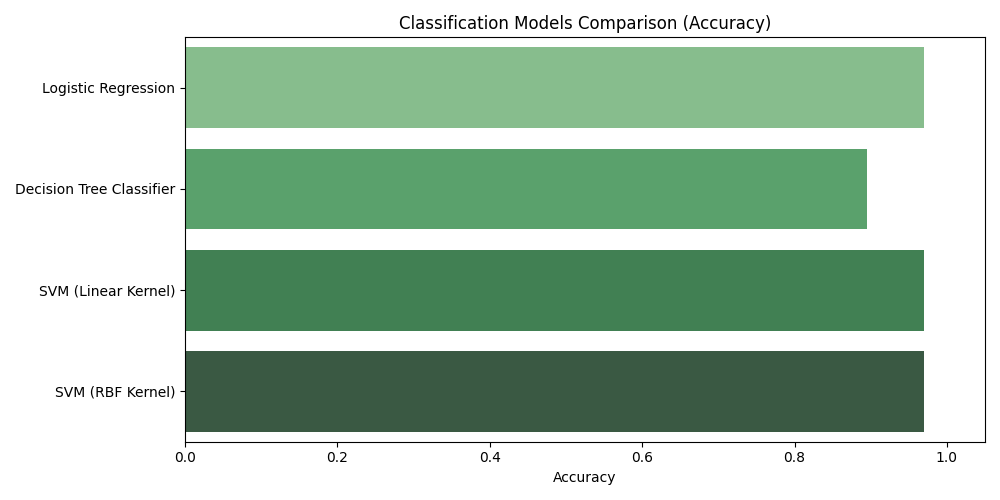
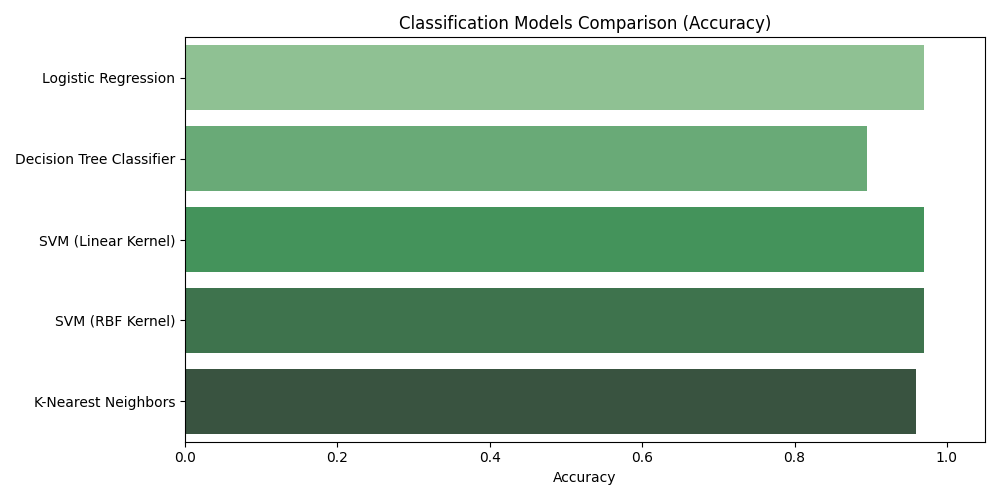
Add K-Nearest Neighbors (KNN) model pipeline and update docs

diff --git a/salary_prediction_project.py b/salary_prediction_project.py
@@ -9,6 +9,7 @@ from sklearn.preprocessing import StandardScaler
 from sklearn.linear_model import LinearRegression, LogisticRegression
 from sklearn.tree import DecisionTreeRegressor, DecisionTreeClassifier
 from sklearn.svm import SVC
+from sklearn.neighbors import KNeighborsClassifier
 from sklearn.metrics import (
     r2_score, accuracy_score, precision_score, 
     recall_score, f1_score, confusion_matrix, classification_report
@@ -165,7 +166,8 @@ classification_models = {
     "Logistic Regression": LogisticRegression(random_state=42),
     "Decision Tree Classifier": DecisionTreeClassifier(random_state=42),
     "SVM (Linear Kernel)": SVC(kernel='linear', random_state=42),
-    "SVM (RBF Kernel)": SVC(kernel='rbf', random_state=42)
+    "SVM (RBF Kernel)": SVC(kernel='rbf', random_state=42),
+    "K-Nearest Neighbors": KNeighborsClassifier(n_neighbors=5)
 }
 
 clf_results = {}
@@ -241,7 +243,7 @@ plt.close()
 print("-> Saved Plot: 'classification_comparison.png'")
 
 # Visualizing Confusion Matrices for the top Models
-models_to_plot = ["Logistic Regression", "SVM (Linear Kernel)", "SVM (RBF Kernel)"]
+models_to_plot = ["Logistic Regression", "SVM (Linear Kernel)", "SVM (RBF Kernel)", "K-Nearest Neighbors"]
 for model_name in models_to_plot:
     cm = confusion_matrix(y_test_clf, classification_models[model_name].predict(X_test_clf_scaled))
     plt.figure(figsize=(6, 5))

diff --git a/README.md b/README.md
@@ -61,6 +61,7 @@ This script acts as the master pipeline. When executed, it will immediately:
 2. **Decision Tree Classifier:** Gini-impurity based branching mechanism.
 3. **Support Vector Machine (Linear Kernel):** Maximizing the margins between linearly separable points.
 4. **Support Vector Machine (RBF Kernel):** Mapping into infinite dimensional space to trace difficult boundary lines.
+5. **K-Nearest Neighbors (KNN):** Distance-based classifying based on the nearest data points.
 
 ## Evaluation Metrics
 We rely on standard Scikit-Learn metrics to validate the mathematical validity of our models:
